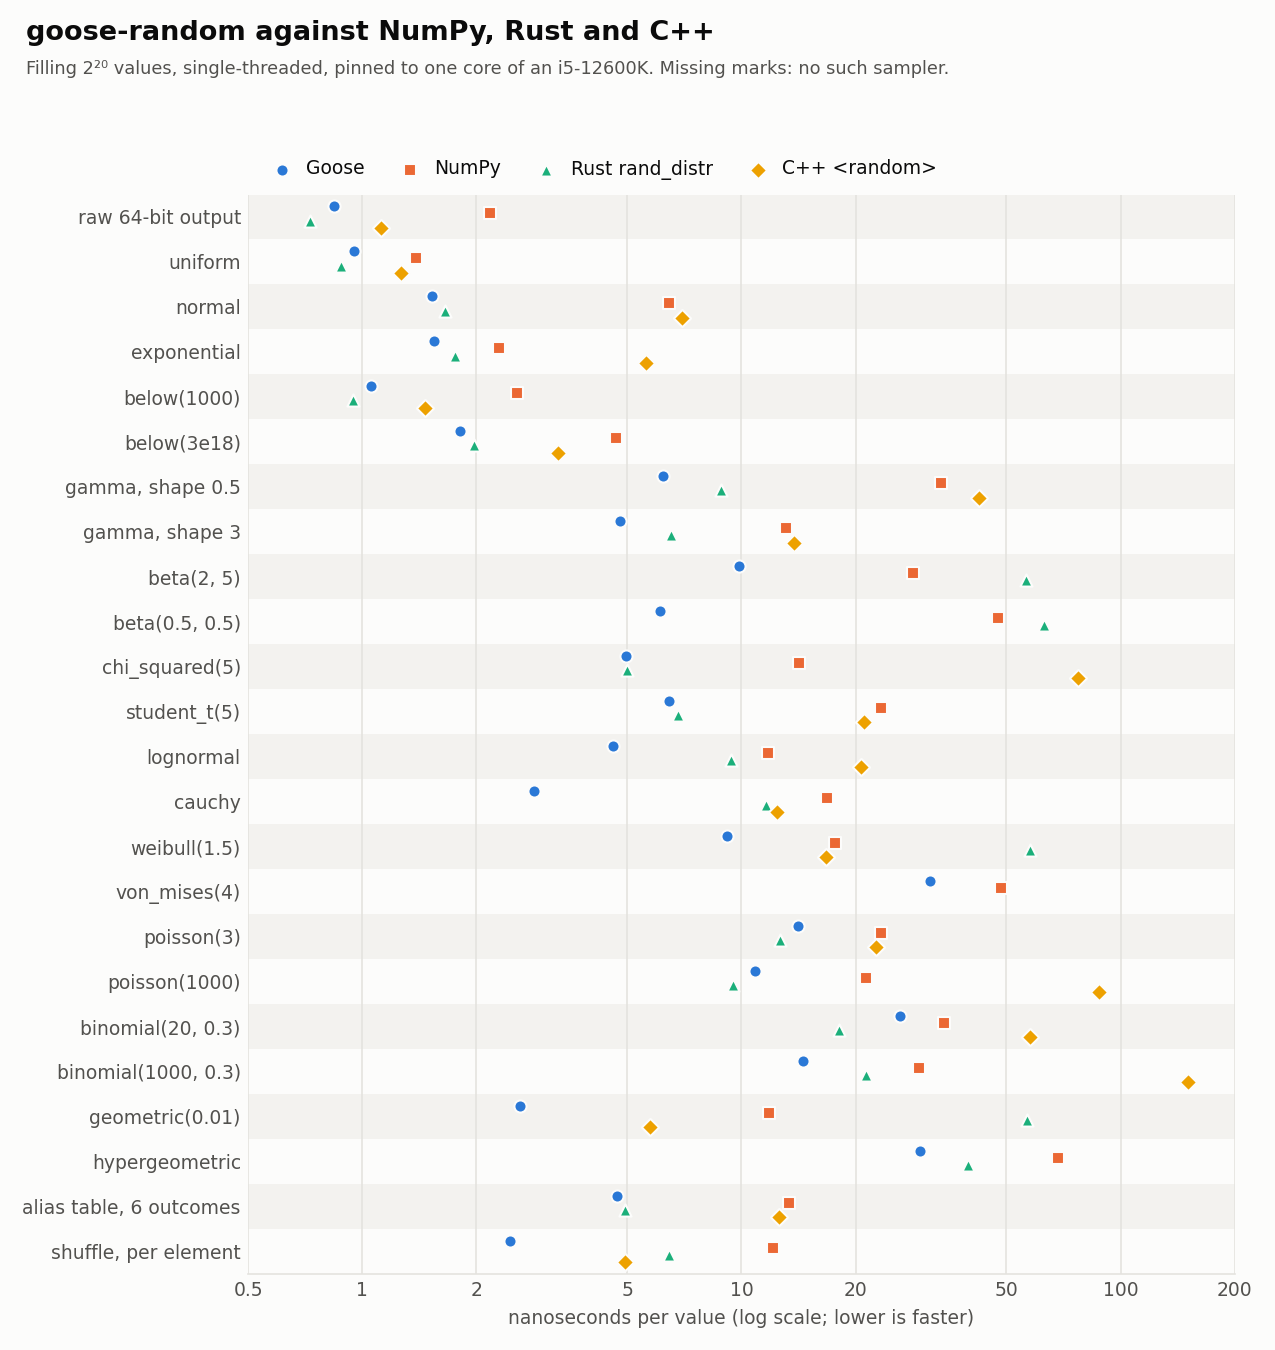
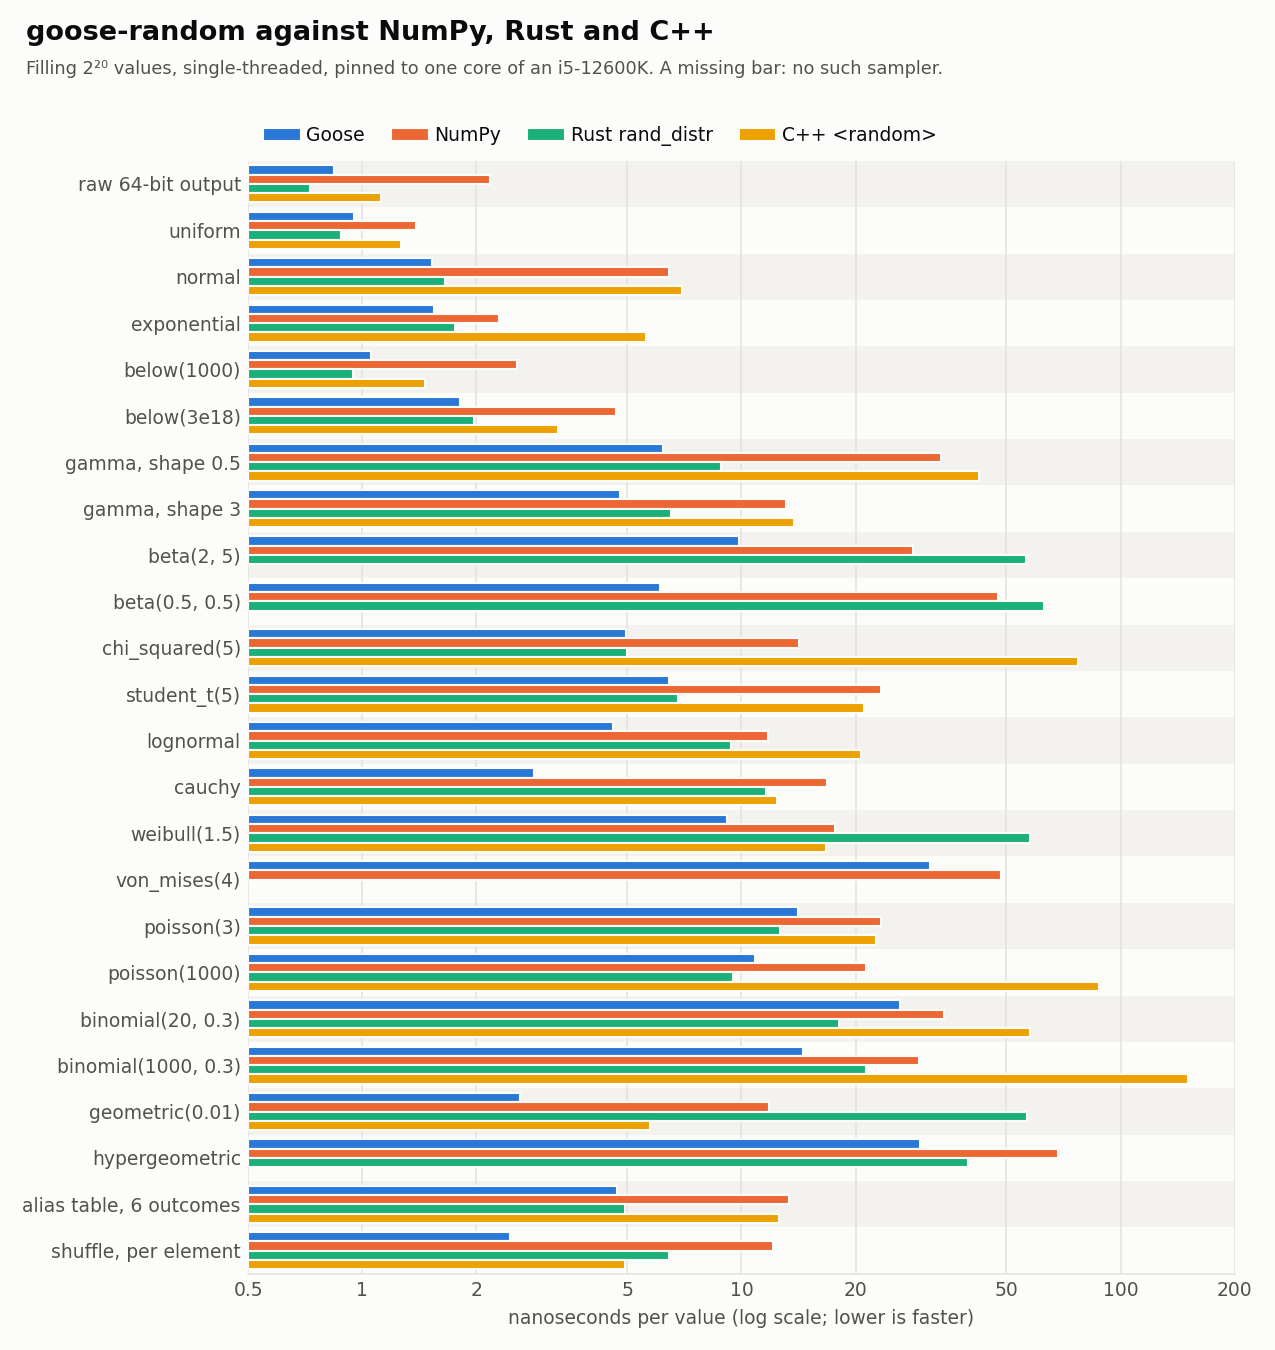
Draw the benchmark plot as thin bars
Points were hard to pick out; a row of four thin bars per case reads
more easily.

Changed region(s): [[0.0306, 0.0933, 0.9482, 0.9644], [0.52, 0.0311, 0.7341, 0.0622], [0.5812, 0.0933, 0.7341, 0.1244]]

diff --git a/tools/plot_bench.py b/tools/plot_bench.py
@@ -1,5 +1,6 @@
 """Draws docs/benchmark.png from the benchmark CSVs in bench/: nanoseconds
-per value for Goose, NumPy, Rust and C++, one row per case, on a log scale.
+per value for Goose, NumPy, Rust and C++, a row of thin bars per case, on a
+log scale.
 
     python tools/plot_bench.py
 """
@@ -81,17 +82,18 @@ def main():
     fig.patch.set_facecolor(SURFACE)
     ax.set_facecolor(SURFACE)
 
-    # Each case is a row; the series sit in four lanes within it, so that
-    # equal times don't hide one another.
-    lane = 0.16
-    for s, (label, _, _, color, marker) in enumerate(SERIES):
-        ys, xs = [], []
+    # Each case is a row of four thin bars, one per library, from the left
+    # edge of the axis, with a gap of surface between neighbours.
+    lane = 0.2
+    left = 0.5
+    for s, (label, _, _, color, _) in enumerate(SERIES):
+        ys, ws = [], []
         for i, (key, _) in enumerate(CASES):
             if key in data[s]:
                 ys.append(i + (s - 1.5) * lane)
-                xs.append(data[s][key])
-        ax.scatter(xs, ys, s=34, color=color, marker=marker, label=label, zorder=3,
-                   edgecolors=SURFACE, linewidths=1.0)
+                ws.append(data[s][key] - left)
+        ax.barh(ys, ws, left=left, height=lane, color=color, label=label, zorder=3,
+                edgecolor=SURFACE, linewidth=1.0)
 
     ax.set_xscale('log')
     ticks = [0.5, 1, 2, 5, 10, 20, 50, 100, 200]
@@ -115,12 +117,12 @@ def main():
     fig.suptitle('goose-random against NumPy, Rust and C++', x=0.02, ha='left',
                  color=TEXT, fontsize=13, fontweight='bold', y=0.985)
     fig.text(0.02, 0.945, 'Filling 2²⁰ values, single-threaded, pinned to one core of an i5-12600K. '
-             'Missing marks: no such sampler.', color=TEXT2, fontsize=8.5, ha='left')
+             'A missing bar: no such sampler.', color=TEXT2, fontsize=8.5, ha='left')
     leg = ax.legend(loc='lower left', bbox_to_anchor=(0.0, 1.0), ncol=4, frameon=False,
                     fontsize=9, handletextpad=0.3, columnspacing=1.4, borderaxespad=0.4)
     for t in leg.get_texts():
         t.set_color(TEXT)
-    fig.tight_layout(rect=(0, 0, 1, 0.94))
+    fig.tight_layout(rect=(0, 0, 1, 0.965))
     os.makedirs(os.path.join(ROOT, 'docs'), exist_ok=True)
     path = os.path.join(ROOT, 'docs', 'benchmark.png')
     fig.savefig(path, facecolor=SURFACE)
